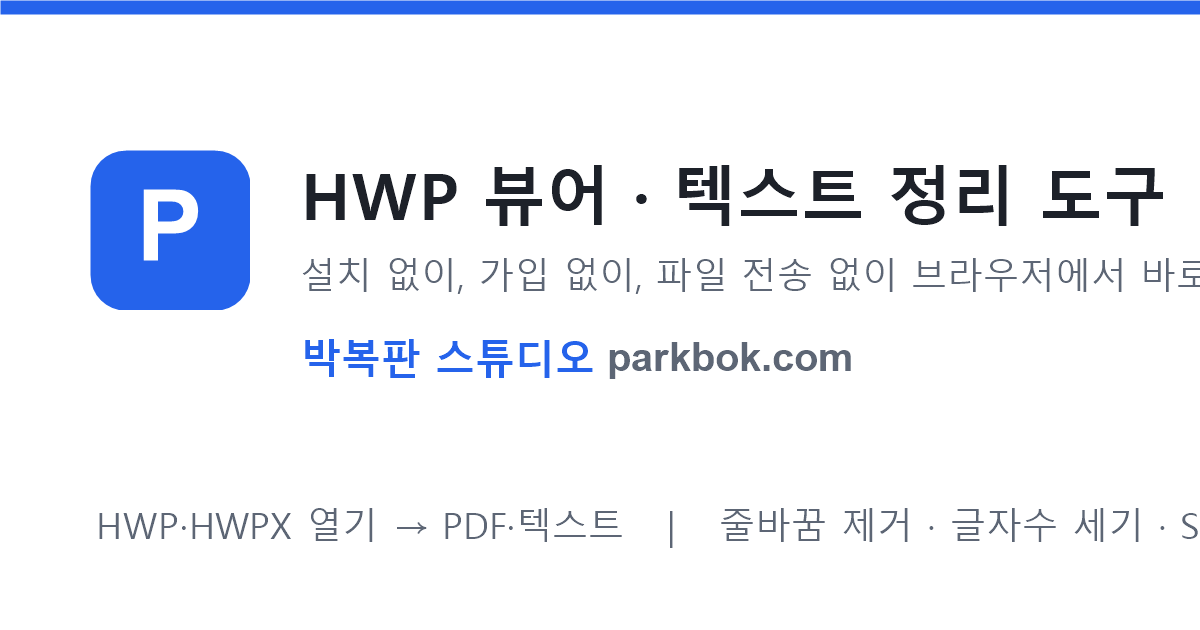
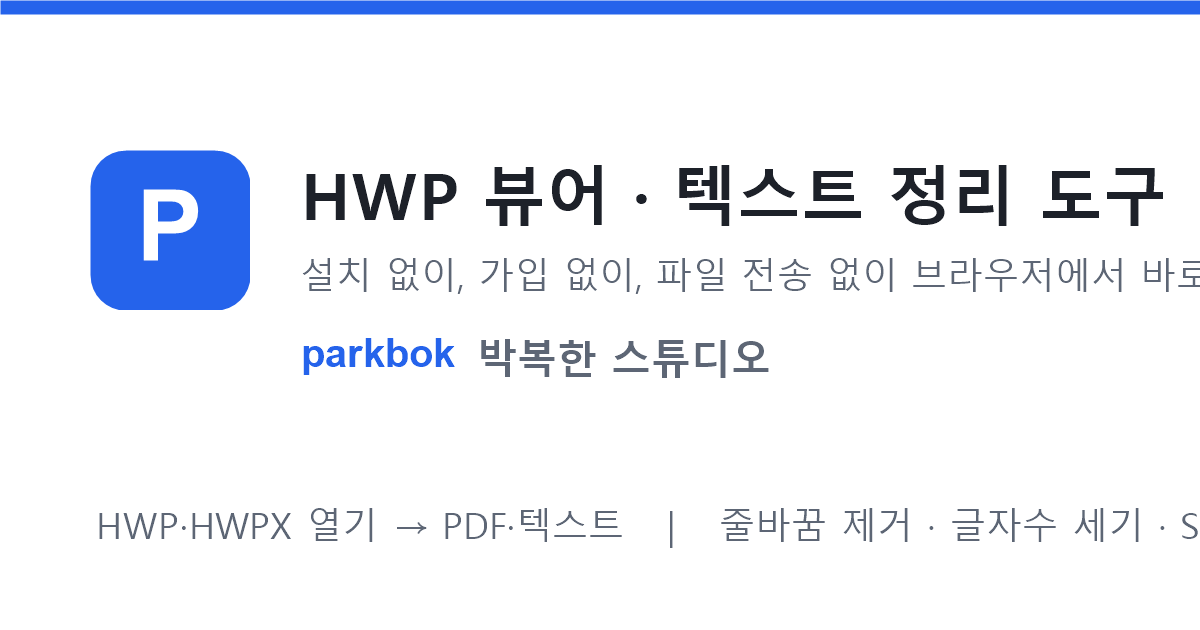
브랜드를 영어 'parkbok'으로 통일 (한국어 명칭은 소개 페이지에 '박복한 스튜디오')
- 제목·상단 로고·바닥글·og:site_name·manifest·구조화 데이터·돌림판 8개 언어·공유 이미지 반영
- tools/rename-site.js 를 예전 이름 전부 → parkbok 으로 갱신

Changed region(s): [[0.2467, 0.5429, 0.7092, 0.6032]]

diff --git a/about.html b/about.html
@@ -2,8 +2,8 @@
 <html lang="ko">
 <head>
 <meta charset="utf-8"><meta name="viewport" content="width=device-width,initial-scale=1">
-<title>소개 | 박복판 스튜디오</title>
-<meta name="description" content="박복판 스튜디오(parkbok.com)는 설치 없이 브라우저에서 HWP 문서를 열어 보는 무료 도구 사이트입니다. 왜 만들었고 어떻게 동작하는지 설명합니다.">
+<title>소개 | parkbok</title>
+<meta name="description" content="parkbok(박복한 스튜디오)은 설치 없이 브라우저에서 HWP 문서를 열어 보는 무료 도구 사이트입니다. 왜 만들었고 어떻게 동작하는지 설명합니다.">
 <link rel="canonical" href="https://parkbok.com/about.html">
 <style id="site-css">
 :root{--bg:#f6f7f9;--card:#fff;--ink:#1d2129;--muted:#5d6675;--line:#e3e6ea;--accent:#2563eb;--accent-ink:#fff}
@@ -69,7 +69,7 @@ article p{margin:0 0 14px}article ul,article ol{padding-left:22px}article li{mar
 <link rel="manifest" href="/manifest.json">
 <meta name="theme-color" content="#2563eb">
 <meta property="og:type" content="website">
-<meta property="og:site_name" content="박복판 스튜디오">
+<meta property="og:site_name" content="parkbok">
 <meta property="og:image" content="https://parkbok.com/og.png">
 <meta property="og:image:width" content="1200">
 <meta property="og:image:height" content="630">
@@ -81,10 +81,10 @@ article p{margin:0 0 14px}article ul,article ol{padding-left:22px}article li{mar
 <!-- /head:ga -->
 </head>
 <body>
-<header class="top"><div class="wrap"><a class="brand" href="/">박복판 <span style="color:#2563eb">스튜디오</span></a><nav class="menu"><a href="/">HWP 뷰어</a><a href="/text/">텍스트 도구</a><a href="/wheel/ko/">룰렛</a><a href="/guide/">가이드</a><a href="/about.html">소개</a></nav></div></header>
+<header class="top"><div class="wrap"><a class="brand" href="/">parkbok</a><nav class="menu"><a href="/">HWP 뷰어</a><a href="/text/">텍스트 도구</a><a href="/wheel/ko/">룰렛</a><a href="/guide/">가이드</a><a href="/about.html">소개</a></nav></div></header>
 <main class="wrap"><article class="card">
-<h1>박복판 스튜디오(parkbok.com) 소개</h1>
-<p>박복판 스튜디오는 "한글 프로그램이 없는데 HWP 파일을 급히 봐야 할 때"를 위해 만든 사이트입니다. 맥북, 회사 밖 노트북, 휴대폰에서 공문·이력서·계약서를 받았는데 열 수 없어 당황한 경험에서 출발했습니다.</p>
+<h1>parkbok (박복한 스튜디오) 소개</h1>
+<p>parkbok(박복한 스튜디오)은 "한글 프로그램이 없는데 HWP 파일을 급히 봐야 할 때"를 위해 만든 사이트입니다. 맥북, 회사 밖 노트북, 휴대폰에서 공문·이력서·계약서를 받았는데 열 수 없어 당황한 경험에서 출발했습니다.</p>
 
 <h2>어떻게 동작하나요</h2>
 <p>대부분의 온라인 변환 사이트는 파일을 자기 서버에 올려서 변환합니다. 이 사이트는 다릅니다. HWP 파일 구조를 해석하는 코드가 웹페이지와 함께 내려와서, 변환은 사용자의 브라우저 안에서 끝납니다. 그래서 파일을 받을 서버가 아예 없고, 운영자도 어떤 파일이 열렸는지 알 수 없습니다.</p>
@@ -100,5 +100,5 @@ article p{margin:0 0 14px}article ul,article ol{padding-left:22px}article li{mar
 <h2>운영</h2>
 <p>사이트는 개인이 운영하며 광고 수익으로 도메인과 유지 비용을 충당합니다. 오류 제보나 요청은 <a href="mailto:bsb94399@gmail.com">bsb94399@gmail.com</a>으로 보내 주세요.</p>
 </article></main>
-<footer><div class="wrap"><a href="/about.html">소개</a><a href="/privacy.html">개인정보처리방침</a><a href="/terms.html">이용약관</a><a href="/guide/">가이드</a><div style="margin-top:8px">© 박복판 스튜디오 · parkbok.com</div></div></footer>
+<footer><div class="wrap"><a href="/about.html">소개</a><a href="/privacy.html">개인정보처리방침</a><a href="/terms.html">이용약관</a><a href="/guide/">가이드</a><div style="margin-top:8px">© parkbok</div></div></footer>
 </body></html>

diff --git a/wheel/ja/what-to-eat/index.html b/wheel/ja/what-to-eat/index.html
@@ -14,7 +14,7 @@
 <link rel="alternate" hreflang="de" href="https://parkbok.com/wheel/de/what-to-eat/">
 <link rel="alternate" hreflang="fr" href="https://parkbok.com/wheel/fr/what-to-eat/">
 <link rel="alternate" hreflang="x-default" href="https://parkbok.com/wheel/what-to-eat/">
-<meta property="og:type" content="website"><meta property="og:site_name" content="Parkbok Studio">
+<meta property="og:type" content="website"><meta property="og:site_name" content="parkbok">
 <meta property="og:title" content="今日のご飯 ルーレット – 献立を決める"><meta property="og:description" content="何を食べるか決まらない時は、ご飯ルーレット。メニューは編集でき、行きつけのお店も追加できます。">
 <meta property="og:url" content="https://parkbok.com/wheel/ja/what-to-eat/"><meta property="og:image" content="https://parkbok.com/og-wheel.png">
 <meta property="og:image:width" content="1200"><meta property="og:image:height" content="630">
@@ -94,7 +94,7 @@ footer{border-top:1px solid var(--line);color:var(--muted);font-size:13px;paddin
 </head>
 <body>
 <header class="top"><div class="wrap">
-  <a class="brand" href="/wheel/ja/">Parkbok Studio</a>
+  <a class="brand" href="/wheel/ja/">parkbok</a>
   <nav class="menu"><a href="/wheel/ja/">名前選び</a><a href="/wheel/ja/yes-or-no/">はい/いいえ</a><a href="/wheel/ja/number/">数字</a><a href="/wheel/ja/what-to-eat/" class="on">今日のご飯</a></nav>
   <select id="lang" aria-label="言語"><option value="/wheel/what-to-eat/" data-code="en">English</option><option value="/wheel/ko/what-to-eat/" data-code="ko">한국어</option><option value="/wheel/zh/what-to-eat/" data-code="zh">中文</option><option value="/wheel/ja/what-to-eat/" data-code="ja" selected>日本語</option><option value="/wheel/es/what-to-eat/" data-code="es">Español</option><option value="/wheel/pt/what-to-eat/" data-code="pt">Português</option><option value="/wheel/de/what-to-eat/" data-code="de">Deutsch</option><option value="/wheel/fr/what-to-eat/" data-code="fr">Français</option></select>
 </div></header>
@@ -159,7 +159,7 @@ footer{border-top:1px solid var(--line);color:var(--muted);font-size:13px;paddin
   </div>
 </div>
 <canvas id="confetti" class="confetti"></canvas>
-<footer><div class="wrap">© Parkbok Studio · parkbok.com</div></footer>
+<footer><div class="wrap">© parkbok</div></footer>
 <script>window.WHEEL_CONFIG={"lang":"ja","preset":"what-to-eat","ui":{"entries":"項目","results":"結果","placeholder":"1行に1つずつ入力","spin":"回す","shuffle":"シャッフル","sort":"並べ替え","clear":"クリア","share":"共有","copied":"リンクをコピーしました。どこにでも貼り付けられます。","fullscreen":"全画面","removeWinner":"当たった項目を自動で除外","sound":"サウンド","duration":"回転時間","sec":"秒","noResults":"まだ結果がありません。回してみましょう！","clearResults":"結果を消す","winner":"決定！","remove":"除外","close":"閉じる","entriesCount":"{n} 件","titlePh":"ルーレットのタイトル（任意）","language":"言語","from":"から","to":"まで","ok":"適用","maybe":"「たぶん」を追加","maybeWord":"たぶん","tapToSpin":"ルーレットをタップするか「回す」を押してください","spinning":"回転中…","noEntries":"回すには項目を2つ以上入れてください。","other":"他のルーレット","howTo":"使い方","faqTitle":"よくある質問"},"entries":["ラーメン","寿司","カレー","焼肉","うどん","牛丼","天ぷら","ハンバーガー","ピザ","パスタ","唐揚げ","お好み焼き"],"langUrls":{"en":"/wheel/what-to-eat/","ko":"/wheel/ko/what-to-eat/","zh":"/wheel/zh/what-to-eat/","ja":"/wheel/ja/what-to-eat/","es":"/wheel/es/what-to-eat/","pt":"/wheel/pt/what-to-eat/","de":"/wheel/de/what-to-eat/","fr":"/wheel/fr/what-to-eat/"},"maybeWord":"たぶん"};</script>
 <script src="/wheel/wheel.js" defer></script>
 </body>

diff --git a/wheel/ko/what-to-eat/index.html b/wheel/ko/what-to-eat/index.html
@@ -14,7 +14,7 @@
 <link rel="alternate" hreflang="de" href="https://parkbok.com/wheel/de/what-to-eat/">
 <link rel="alternate" hreflang="fr" href="https://parkbok.com/wheel/fr/what-to-eat/">
 <link rel="alternate" hreflang="x-default" href="https://parkbok.com/wheel/what-to-eat/">
-<meta property="og:type" content="website"><meta property="og:site_name" content="박복판 스튜디오">
+<meta property="og:type" content="website"><meta property="og:site_name" content="parkbok">
 <meta property="og:title" content="오늘 뭐 먹지 룰렛 – 메뉴 추천 돌림판"><meta property="og:description" content="메뉴 고민 끝. 오늘 뭐 먹지 룰렛을 돌려 점심·저녁 메뉴를 정하세요. 메뉴 수정, 단골집 추가 가능.">
 <meta property="og:url" content="https://parkbok.com/wheel/ko/what-to-eat/"><meta property="og:image" content="https://parkbok.com/og-wheel.png">
 <meta property="og:image:width" content="1200"><meta property="og:image:height" content="630">
@@ -94,7 +94,7 @@ footer{border-top:1px solid var(--line);color:var(--muted);font-size:13px;paddin
 </head>
 <body>
 <header class="top"><div class="wrap">
-  <a class="brand" href="/wheel/ko/">박복판 스튜디오</a>
+  <a class="brand" href="/wheel/ko/">parkbok</a>
   <nav class="menu"><a href="/wheel/ko/">이름 뽑기</a><a href="/wheel/ko/yes-or-no/">예/아니오</a><a href="/wheel/ko/number/">숫자</a><a href="/wheel/ko/what-to-eat/" class="on">오늘 뭐 먹지</a></nav>
   <select id="lang" aria-label="언어"><option value="/wheel/what-to-eat/" data-code="en">English</option><option value="/wheel/ko/what-to-eat/" data-code="ko" selected>한국어</option><option value="/wheel/zh/what-to-eat/" data-code="zh">中文</option><option value="/wheel/ja/what-to-eat/" data-code="ja">日本語</option><option value="/wheel/es/what-to-eat/" data-code="es">Español</option><option value="/wheel/pt/what-to-eat/" data-code="pt">Português</option><option value="/wheel/de/what-to-eat/" data-code="de">Deutsch</option><option value="/wheel/fr/what-to-eat/" data-code="fr">Français</option></select>
 </div></header>
@@ -159,7 +159,7 @@ footer{border-top:1px solid var(--line);color:var(--muted);font-size:13px;paddin
   </div>
 </div>
 <canvas id="confetti" class="confetti"></canvas>
-<footer><div class="wrap">© 박복판 스튜디오 · parkbok.com</div></footer>
+<footer><div class="wrap">© parkbok</div></footer>
 <script>window.WHEEL_CONFIG={"lang":"ko","preset":"what-to-eat","ui":{"entries":"항목","results":"결과","placeholder":"한 줄에 하나씩 입력","spin":"돌리기","shuffle":"섞기","sort":"정렬","clear":"지우기","share":"공유","copied":"링크를 복사했습니다. 어디든 붙여 넣으세요.","fullscreen":"전체화면","removeWinner":"당첨 항목 자동 제거","sound":"소리","duration":"회전 시간","sec":"초","noResults":"아직 결과가 없습니다. 룰렛을 돌려 보세요!","clearResults":"결과 지우기","winner":"당첨!","remove":"제거","close":"닫기","entriesCount":"{n}개 항목","titlePh":"룰렛 제목 (선택)","language":"언어","from":"부터","to":"까지","ok":"적용","maybe":"“글쎄” 추가","maybeWord":"글쎄","tapToSpin":"룰렛을 누르거나 돌리기 버튼을 누르세요","spinning":"돌아가는 중…","noEntries":"항목을 2개 이상 넣어야 돌릴 수 있습니다.","other":"다른 룰렛","howTo":"사용 방법","faqTitle":"자주 묻는 질문"},"entries":["김치찌개","삼겹살","치킨","피자","떡볶이","초밥","햄버거","파스타","국밥","짜장면","라멘","쌀국수"],"langUrls":{"en":"/wheel/what-to-eat/","ko":"/wheel/ko/what-to-eat/","zh":"/wheel/zh/what-to-eat/","ja":"/wheel/ja/what-to-eat/","es":"/wheel/es/what-to-eat/","pt":"/wheel/pt/what-to-eat/","de":"/wheel/de/what-to-eat/","fr":"/wheel/fr/what-to-eat/"},"maybeWord":"글쎄"};</script>
 <script src="/wheel/wheel.js" defer></script>
 </body>

diff --git a/guide/index.html b/guide/index.html
@@ -2,7 +2,7 @@
 <html lang="ko">
 <head>
 <meta charset="utf-8"><meta name="viewport" content="width=device-width,initial-scale=1">
-<title>HWP 가이드 | 박복판 스튜디오</title>
+<title>HWP 가이드 | parkbok</title>
 <meta name="description" content="HWP·HWPX 문서를 열고, 바꾸고, 문제를 해결하는 방법 모음.">
 <link rel="canonical" href="https://parkbok.com/guide/">
 <style id="site-css">
@@ -69,7 +69,7 @@ article p{margin:0 0 14px}article ul,article ol{padding-left:22px}article li{mar
 <link rel="manifest" href="/manifest.json">
 <meta name="theme-color" content="#2563eb">
 <meta property="og:type" content="website">
-<meta property="og:site_name" content="박복판 스튜디오">
+<meta property="og:site_name" content="parkbok">
 <meta property="og:image" content="https://parkbok.com/og.png">
 <meta property="og:image:width" content="1200">
 <meta property="og:image:height" content="630">
@@ -81,7 +81,7 @@ article p{margin:0 0 14px}article ul,article ol{padding-left:22px}article li{mar
 <!-- /head:ga -->
 </head>
 <body>
-<header class="top"><div class="wrap"><a class="brand" href="/">박복판 <span style="color:#2563eb">스튜디오</span></a><nav class="menu"><a href="/">HWP 뷰어</a><a href="/text/">텍스트 도구</a><a href="/wheel/ko/">룰렛</a><a href="/guide/">가이드</a><a href="/about.html">소개</a></nav></div></header>
+<header class="top"><div class="wrap"><a class="brand" href="/">parkbok</a><nav class="menu"><a href="/">HWP 뷰어</a><a href="/text/">텍스트 도구</a><a href="/wheel/ko/">룰렛</a><a href="/guide/">가이드</a><a href="/about.html">소개</a></nav></div></header>
 <main class="wrap"><article class="card">
 <h1>HWP 가이드</h1>
 <ul><li><a href="/guide/hwp-vs-hwpx.html">HWP와 HWPX의 차이, 무엇을 써야 할까</a><br><span style="color:#5d6675;font-size:14px">한글 문서의 두 확장자 HWP와 HWPX가 어떻게 다른지, 호환성과 보안, 제출 시 어떤 형식이 안전한지 정리했습니다.</span></li><li><a href="/guide/open-hwp-on-mac.html">맥에서 HWP 파일 여는 방법 4가지</a><br><span style="color:#5d6675;font-size:14px">맥북에 한글이 없을 때 HWP를 여는 방법을 쉬운 순서로 정리했습니다. 브라우저 뷰어, 한컴독스, 한글 for Mac, 다른 프로그램 비교.</span></li><li><a href="/guide/hwp-to-pdf.html">HWP를 PDF로 바꾸는 방법 (무료, 설치 없음)</a><br><span style="color:#5d6675;font-size:14px">한글 프로그램 없이 HWP를 PDF로 변환하는 방법. 브라우저 인쇄로 저장하는 단계별 설명과 주의할 점.</span></li><li><a href="/guide/open-hwp-on-phone.html">휴대폰에서 HWP 파일 열기 (안드로이드·아이폰)</a><br><span style="color:#5d6675;font-size:14px">카카오톡이나 메일로 받은 HWP를 휴대폰에서 여는 방법. 앱 설치 없이 브라우저로 보는 법과 한컴오피스 뷰어 비교.</span></li><li><a href="/guide/hwp-wont-open.html">HWP 파일이 안 열릴 때 확인할 것 6가지</a><br><span style="color:#5d6675;font-size:14px">HWP 파일이 열리지 않거나 깨질 때 원인별 해결 방법. 암호, 배포용 문서, 구버전 형식, 확장자 오류, 손상 파일.</span></li></ul>
@@ -89,5 +89,5 @@ article p{margin:0 0 14px}article ul,article ol{padding-left:22px}article li{mar
 </article>
 <div class="ad"></div>
 </main>
-<footer><div class="wrap"><a href="/about.html">소개</a><a href="/privacy.html">개인정보처리방침</a><a href="/terms.html">이용약관</a><a href="/guide/">가이드</a><div style="margin-top:8px">© 박복판 스튜디오 · parkbok.com</div></div></footer>
+<footer><div class="wrap"><a href="/about.html">소개</a><a href="/privacy.html">개인정보처리방침</a><a href="/terms.html">이용약관</a><a href="/guide/">가이드</a><div style="margin-top:8px">© parkbok</div></div></footer>
 </body></html>

diff --git a/wheel/ja/yes-or-no/index.html b/wheel/ja/yes-or-no/index.html
@@ -14,7 +14,7 @@
 <link rel="alternate" hreflang="de" href="https://parkbok.com/wheel/de/yes-or-no/">
 <link rel="alternate" hreflang="fr" href="https://parkbok.com/wheel/fr/yes-or-no/">
 <link rel="alternate" hreflang="x-default" href="https://parkbok.com/wheel/yes-or-no/">
-<meta property="og:type" content="website"><meta property="og:site_name" content="Parkbok Studio">
+<meta property="og:type" content="website"><meta property="og:site_name" content="parkbok">
 <meta property="og:title" content="はい・いいえ ルーレット – 回して決める"><meta property="og:description" content="決められない時は、はい・いいえルーレット。無料ですぐ使えて、「たぶん」も追加できます。">
 <meta property="og:url" content="https://parkbok.com/wheel/ja/yes-or-no/"><meta property="og:image" content="https://parkbok.com/og-wheel.png">
 <meta property="og:image:width" content="1200"><meta property="og:image:height" content="630">
@@ -94,7 +94,7 @@ footer{border-top:1px solid var(--line);color:var(--muted);font-size:13px;paddin
 </head>
 <body>
 <header class="top"><div class="wrap">
-  <a class="brand" href="/wheel/ja/">Parkbok Studio</a>
+  <a class="brand" href="/wheel/ja/">parkbok</a>
   <nav class="menu"><a href="/wheel/ja/">名前選び</a><a href="/wheel/ja/yes-or-no/" class="on">はい/いいえ</a><a href="/wheel/ja/number/">数字</a><a href="/wheel/ja/what-to-eat/">今日のご飯</a></nav>
   <select id="lang" aria-label="言語"><option value="/wheel/yes-or-no/" data-code="en">English</option><option value="/wheel/ko/yes-or-no/" data-code="ko">한국어</option><option value="/wheel/zh/yes-or-no/" data-code="zh">中文</option><option value="/wheel/ja/yes-or-no/" data-code="ja" selected>日本語</option><option value="/wheel/es/yes-or-no/" data-code="es">Español</option><option value="/wheel/pt/yes-or-no/" data-code="pt">Português</option><option value="/wheel/de/yes-or-no/" data-code="de">Deutsch</option><option value="/wheel/fr/yes-or-no/" data-code="fr">Français</option></select>
 </div></header>
@@ -159,7 +159,7 @@ footer{border-top:1px solid var(--line);color:var(--muted);font-size:13px;paddin
   </div>
 </div>
 <canvas id="confetti" class="confetti"></canvas>
-<footer><div class="wrap">© Parkbok Studio · parkbok.com</div></footer>
+<footer><div class="wrap">© parkbok</div></footer>
 <script>window.WHEEL_CONFIG={"lang":"ja","preset":"yes-or-no","ui":{"entries":"項目","results":"結果","placeholder":"1行に1つずつ入力","spin":"回す","shuffle":"シャッフル","sort":"並べ替え","clear":"クリア","share":"共有","copied":"リンクをコピーしました。どこにでも貼り付けられます。","fullscreen":"全画面","removeWinner":"当たった項目を自動で除外","sound":"サウンド","duration":"回転時間","sec":"秒","noResults":"まだ結果がありません。回してみましょう！","clearResults":"結果を消す","winner":"決定！","remove":"除外","close":"閉じる","entriesCount":"{n} 件","titlePh":"ルーレットのタイトル（任意）","language":"言語","from":"から","to":"まで","ok":"適用","maybe":"「たぶん」を追加","maybeWord":"たぶん","tapToSpin":"ルーレットをタップするか「回す」を押してください","spinning":"回転中…","noEntries":"回すには項目を2つ以上入れてください。","other":"他のルーレット","howTo":"使い方","faqTitle":"よくある質問"},"entries":["はい","いいえ","はい","いいえ","はい","いいえ"],"langUrls":{"en":"/wheel/yes-or-no/","ko":"/wheel/ko/yes-or-no/","zh":"/wheel/zh/yes-or-no/","ja":"/wheel/ja/yes-or-no/","es":"/wheel/es/yes-or-no/","pt":"/wheel/pt/yes-or-no/","de":"/wheel/de/yes-or-no/","fr":"/wheel/fr/yes-or-no/"},"maybeWord":"たぶん"};</script>
 <script src="/wheel/wheel.js" defer></script>
 </body>

diff --git a/wheel/fr/what-to-eat/index.html b/wheel/fr/what-to-eat/index.html
@@ -14,7 +14,7 @@
 <link rel="alternate" hreflang="de" href="https://parkbok.com/wheel/de/what-to-eat/">
 <link rel="alternate" hreflang="fr" href="https://parkbok.com/wheel/fr/what-to-eat/">
 <link rel="alternate" hreflang="x-default" href="https://parkbok.com/wheel/what-to-eat/">
-<meta property="og:type" content="website"><meta property="og:site_name" content="Parkbok Studio">
+<meta property="og:type" content="website"><meta property="og:site_name" content="parkbok">
 <meta property="og:title" content="Quoi Manger ? Roue de la Nourriture – Tourner et décider"><meta property="og:description" content="Vous ne savez pas quoi manger ? Faites tourner la roue de la nourriture et laissez-la choisir le dîner. Modifiez le menu, ajoutez vos restaurants préférés.">
 <meta property="og:url" content="https://parkbok.com/wheel/fr/what-to-eat/"><meta property="og:image" content="https://parkbok.com/og-wheel.png">
 <meta property="og:image:width" content="1200"><meta property="og:image:height" content="630">
@@ -94,7 +94,7 @@ footer{border-top:1px solid var(--line);color:var(--muted);font-size:13px;paddin
 </head>
 <body>
 <header class="top"><div class="wrap">
-  <a class="brand" href="/wheel/fr/">Parkbok Studio</a>
+  <a class="brand" href="/wheel/fr/">parkbok</a>
   <nav class="menu"><a href="/wheel/fr/">Noms</a><a href="/wheel/fr/yes-or-no/">Oui ou Non</a><a href="/wheel/fr/number/">Nombres</a><a href="/wheel/fr/what-to-eat/" class="on">Quoi manger</a></nav>
   <select id="lang" aria-label="Langue"><option value="/wheel/what-to-eat/" data-code="en">English</option><option value="/wheel/ko/what-to-eat/" data-code="ko">한국어</option><option value="/wheel/zh/what-to-eat/" data-code="zh">中文</option><option value="/wheel/ja/what-to-eat/" data-code="ja">日本語</option><option value="/wheel/es/what-to-eat/" data-code="es">Español</option><option value="/wheel/pt/what-to-eat/" data-code="pt">Português</option><option value="/wheel/de/what-to-eat/" data-code="de">Deutsch</option><option value="/wheel/fr/what-to-eat/" data-code="fr" selected>Français</option></select>
 </div></header>
@@ -159,7 +159,7 @@ footer{border-top:1px solid var(--line);color:var(--muted);font-size:13px;paddin
   </div>
 </div>
 <canvas id="confetti" class="confetti"></canvas>
-<footer><div class="wrap">© Parkbok Studio · parkbok.com</div></footer>
+<footer><div class="wrap">© parkbok</div></footer>
 <script>window.WHEEL_CONFIG={"lang":"fr","preset":"what-to-eat","ui":{"entries":"Entrées","results":"Résultats","placeholder":"Une entrée par ligne","spin":"Tourner","shuffle":"Mélanger","sort":"Trier","clear":"Effacer","share":"Partager","copied":"Lien copié ! Collez-le où vous voulez.","fullscreen":"Plein écran","removeWinner":"Retirer le gagnant après le tirage","sound":"Son","duration":"Durée de rotation","sec":"s","noResults":"Pas encore de résultat. Faites tourner la roue !","clearResults":"Effacer les résultats","winner":"Nous avons un gagnant !","remove":"Retirer","close":"Fermer","entriesCount":"{n} entrées","titlePh":"Titre de la roue (facultatif)","language":"Langue","from":"De","to":"À","ok":"OK","maybe":"Ajouter « Peut-être »","maybeWord":"Peut-être","tapToSpin":"Touchez la roue ou appuyez sur Tourner","spinning":"Ça tourne…","noEntries":"Ajoutez au moins 2 entrées pour tourner.","other":"Autres roues","howTo":"Mode d'emploi","faqTitle":"Questions fréquentes"},"entries":["Pizza","Burger","Sushi","Pâtes","Salade","Crêpes","Kebab","Ramen","Tacos","Quiche","Raclette","Couscous"],"langUrls":{"en":"/wheel/what-to-eat/","ko":"/wheel/ko/what-to-eat/","zh":"/wheel/zh/what-to-eat/","ja":"/wheel/ja/what-to-eat/","es":"/wheel/es/what-to-eat/","pt":"/wheel/pt/what-to-eat/","de":"/wheel/de/what-to-eat/","fr":"/wheel/fr/what-to-eat/"},"maybeWord":"Peut-être"};</script>
 <script src="/wheel/wheel.js" defer></script>
 </body>

diff --git a/wheel/de/what-to-eat/index.html b/wheel/de/what-to-eat/index.html
@@ -14,7 +14,7 @@
 <link rel="alternate" hreflang="de" href="https://parkbok.com/wheel/de/what-to-eat/">
 <link rel="alternate" hreflang="fr" href="https://parkbok.com/wheel/fr/what-to-eat/">
 <link rel="alternate" hreflang="x-default" href="https://parkbok.com/wheel/what-to-eat/">
-<meta property="og:type" content="website"><meta property="og:site_name" content="Parkbok Studio">
+<meta property="og:type" content="website"><meta property="og:site_name" content="parkbok">
 <meta property="og:title" content="Was soll ich essen? Essens-Glücksrad – Drehen und entscheiden"><meta property="og:description" content="Keine Ahnung, was du essen sollst? Dreh das Essens-Rad und lass es das Abendessen wählen. Menü bearbeiten, Lieblingsrestaurants hinzufügen.">
 <meta property="og:url" content="https://parkbok.com/wheel/de/what-to-eat/"><meta property="og:image" content="https://parkbok.com/og-wheel.png">
 <meta property="og:image:width" content="1200"><meta property="og:image:height" content="630">
@@ -94,7 +94,7 @@ footer{border-top:1px solid var(--line);color:var(--muted);font-size:13px;paddin
 </head>
 <body>
 <header class="top"><div class="wrap">
-  <a class="brand" href="/wheel/de/">Parkbok Studio</a>
+  <a class="brand" href="/wheel/de/">parkbok</a>
   <nav class="menu"><a href="/wheel/de/">Namen</a><a href="/wheel/de/yes-or-no/">Ja oder Nein</a><a href="/wheel/de/number/">Zahlen</a><a href="/wheel/de/what-to-eat/" class="on">Was essen</a></nav>
   <select id="lang" aria-label="Sprache"><option value="/wheel/what-to-eat/" data-code="en">English</option><option value="/wheel/ko/what-to-eat/" data-code="ko">한국어</option><option value="/wheel/zh/what-to-eat/" data-code="zh">中文</option><option value="/wheel/ja/what-to-eat/" data-code="ja">日本語</option><option value="/wheel/es/what-to-eat/" data-code="es">Español</option><option value="/wheel/pt/what-to-eat/" data-code="pt">Português</option><option value="/wheel/de/what-to-eat/" data-code="de" selected>Deutsch</option><option value="/wheel/fr/what-to-eat/" data-code="fr">Français</option></select>
 </div></header>
@@ -159,7 +159,7 @@ footer{border-top:1px solid var(--line);color:var(--muted);font-size:13px;paddin
   </div>
 </div>
 <canvas id="confetti" class="confetti"></canvas>
-<footer><div class="wrap">© Parkbok Studio · parkbok.com</div></footer>
+<footer><div class="wrap">© parkbok</div></footer>
 <script>window.WHEEL_CONFIG={"lang":"de","preset":"what-to-eat","ui":{"entries":"Einträge","results":"Ergebnisse","placeholder":"Pro Zeile ein Eintrag","spin":"Drehen","shuffle":"Mischen","sort":"Sortieren","clear":"Leeren","share":"Teilen","copied":"Link kopiert! Überall einfügbar.","fullscreen":"Vollbild","removeWinner":"Gewinner nach dem Drehen entfernen","sound":"Ton","duration":"Drehdauer","sec":"s","noResults":"Noch keine Ergebnisse. Dreh das Rad!","clearResults":"Ergebnisse löschen","winner":"Wir haben einen Gewinner!","remove":"Entfernen","close":"Schließen","entriesCount":"{n} Einträge","titlePh":"Titel des Rads (optional)","language":"Sprache","from":"Von","to":"Bis","ok":"OK","maybe":"„Vielleicht“ hinzufügen","maybeWord":"Vielleicht","tapToSpin":"Rad antippen oder auf Drehen klicken","spinning":"Dreht sich…","noEntries":"Mindestens 2 Einträge nötig, um zu drehen.","other":"Weitere Räder","howTo":"So funktioniert es","faqTitle":"Häufige Fragen"},"entries":["Pizza","Döner","Burger","Schnitzel","Sushi","Pasta","Currywurst","Salat","Ramen","Tacos","Flammkuchen","Bratwurst"],"langUrls":{"en":"/wheel/what-to-eat/","ko":"/wheel/ko/what-to-eat/","zh":"/wheel/zh/what-to-eat/","ja":"/wheel/ja/what-to-eat/","es":"/wheel/es/what-to-eat/","pt":"/wheel/pt/what-to-eat/","de":"/wheel/de/what-to-eat/","fr":"/wheel/fr/what-to-eat/"},"maybeWord":"Vielleicht"};</script>
 <script src="/wheel/wheel.js" defer></script>
 </body>

diff --git a/wheel/es/what-to-eat/index.html b/wheel/es/what-to-eat/index.html
@@ -14,7 +14,7 @@
 <link rel="alternate" hreflang="de" href="https://parkbok.com/wheel/de/what-to-eat/">
 <link rel="alternate" hreflang="fr" href="https://parkbok.com/wheel/fr/what-to-eat/">
 <link rel="alternate" hreflang="x-default" href="https://parkbok.com/wheel/what-to-eat/">
-<meta property="og:type" content="website"><meta property="og:site_name" content="Parkbok Studio">
+<meta property="og:type" content="website"><meta property="og:site_name" content="parkbok">
 <meta property="og:title" content="¿Qué Comer Hoy? Ruleta de Comida – Gira y Decide"><meta property="og:description" content="¿No sabes qué comer? Gira la ruleta de comida y deja que elija la cena por ti. Edita el menú y añade tus restaurantes favoritos.">
 <meta property="og:url" content="https://parkbok.com/wheel/es/what-to-eat/"><meta property="og:image" content="https://parkbok.com/og-wheel.png">
 <meta property="og:image:width" content="1200"><meta property="og:image:height" content="630">
@@ -94,7 +94,7 @@ footer{border-top:1px solid var(--line);color:var(--muted);font-size:13px;paddin
 </head>
 <body>
 <header class="top"><div class="wrap">
-  <a class="brand" href="/wheel/es/">Parkbok Studio</a>
+  <a class="brand" href="/wheel/es/">parkbok</a>
   <nav class="menu"><a href="/wheel/es/">Nombres</a><a href="/wheel/es/yes-or-no/">Sí o No</a><a href="/wheel/es/number/">Números</a><a href="/wheel/es/what-to-eat/" class="on">Qué comer</a></nav>
   <select id="lang" aria-label="Idioma"><option value="/wheel/what-to-eat/" data-code="en">English</option><option value="/wheel/ko/what-to-eat/" data-code="ko">한국어</option><option value="/wheel/zh/what-to-eat/" data-code="zh">中文</option><option value="/wheel/ja/what-to-eat/" data-code="ja">日本語</option><option value="/wheel/es/what-to-eat/" data-code="es" selected>Español</option><option value="/wheel/pt/what-to-eat/" data-code="pt">Português</option><option value="/wheel/de/what-to-eat/" data-code="de">Deutsch</option><option value="/wheel/fr/what-to-eat/" data-code="fr">Français</option></select>
 </div></header>
@@ -159,7 +159,7 @@ footer{border-top:1px solid var(--line);color:var(--muted);font-size:13px;paddin
   </div>
 </div>
 <canvas id="confetti" class="confetti"></canvas>
-<footer><div class="wrap">© Parkbok Studio · parkbok.com</div></footer>
+<footer><div class="wrap">© parkbok</div></footer>
 <script>window.WHEEL_CONFIG={"lang":"es","preset":"what-to-eat","ui":{"entries":"Opciones","results":"Resultados","placeholder":"Escribe una opción por línea","spin":"Girar","shuffle":"Mezclar","sort":"Ordenar","clear":"Borrar","share":"Compartir","copied":"¡Enlace copiado! Pégalo donde quieras.","fullscreen":"Pantalla completa","removeWinner":"Quitar el ganador tras girar","sound":"Sonido","duration":"Duración del giro","sec":"s","noResults":"Aún no hay resultados. ¡Gira la ruleta!","clearResults":"Borrar resultados","winner":"¡Tenemos ganador!","remove":"Quitar","close":"Cerrar","entriesCount":"{n} opciones","titlePh":"Título de la ruleta (opcional)","language":"Idioma","from":"Desde","to":"Hasta","ok":"OK","maybe":"Añadir «Quizás»","maybeWord":"Quizás","tapToSpin":"Toca la ruleta o pulsa Girar","spinning":"Girando…","noEntries":"Añade al menos 2 opciones para girar.","other":"Más ruletas","howTo":"Cómo se usa","faqTitle":"Preguntas frecuentes"},"entries":["Tacos","Pizza","Paella","Hamburguesa","Sushi","Ensalada","Pasta","Pollo frito","Arepas","Empanadas","Ramen","Ceviche"],"langUrls":{"en":"/wheel/what-to-eat/","ko":"/wheel/ko/what-to-eat/","zh":"/wheel/zh/what-to-eat/","ja":"/wheel/ja/what-to-eat/","es":"/wheel/es/what-to-eat/","pt":"/wheel/pt/what-to-eat/","de":"/wheel/de/what-to-eat/","fr":"/wheel/fr/what-to-eat/"},"maybeWord":"Quizás"};</script>
 <script src="/wheel/wheel.js" defer></script>
 </body>

diff --git a/index.html b/index.html
@@ -3,7 +3,7 @@
 <head>
 <meta charset="utf-8">
 <meta name="viewport" content="width=device-width,initial-scale=1">
-<title>HWP 뷰어 · 변환 — 한글 없이 HWP/HWPX 열기, PDF·텍스트 저장 | 박복판 스튜디오</title>
+<title>HWP 뷰어 · 변환 — 한글 없이 HWP/HWPX 열기, PDF·텍스트 저장 | parkbok</title>
 <meta name="description" content="한글(HWP) 프로그램 없이 브라우저에서 HWP·HWPX 파일을 바로 열어 보고 PDF, 텍스트, HTML로 저장하세요. 파일은 서버로 전송되지 않고 내 브라우저 안에서만 처리됩니다. 설치·가입 없음, 무료.">
 <link rel="canonical" href="https://parkbok.com/">
 <meta name="naver-site-verification" content="7de1e409d63ba7461732d6a48b190cc48a6707e3" />
@@ -68,7 +68,7 @@ article p{margin:0 0 14px}article ul,article ol{padding-left:22px}article li{mar
 </style>
 <script async src="https://pagead2.googlesyndication.com/pagead/js/adsbygoogle.js?client=ca-pub-1415309581345613" crossorigin="anonymous"></script>
 <script type="application/ld+json">
-{"@context":"https://schema.org","@type":"WebApplication","name":"박복판 스튜디오 HWP 뷰어","url":"https://parkbok.com/","applicationCategory":"UtilitiesApplication","operatingSystem":"Any","offers":{"@type":"Offer","price":"0","priceCurrency":"KRW"},"description":"브라우저에서 HWP·HWPX 파일을 열어 보고 PDF·텍스트·HTML로 저장하는 무료 도구"}
+{"@context":"https://schema.org","@type":"WebApplication","name":"parkbok HWP 뷰어","url":"https://parkbok.com/","applicationCategory":"UtilitiesApplication","operatingSystem":"Any","offers":{"@type":"Offer","price":"0","priceCurrency":"KRW"},"description":"브라우저에서 HWP·HWPX 파일을 열어 보고 PDF·텍스트·HTML로 저장하는 무료 도구"}
 </script>
 <!-- head:common -->
 <link rel="icon" href="/favicon.svg" type="image/svg+xml">
@@ -77,7 +77,7 @@ article p{margin:0 0 14px}article ul,article ol{padding-left:22px}article li{mar
 <link rel="manifest" href="/manifest.json">
 <meta name="theme-color" content="#2563eb">
 <meta property="og:type" content="website">
-<meta property="og:site_name" content="박복판 스튜디오">
+<meta property="og:site_name" content="parkbok">
 <meta property="og:image" content="https://parkbok.com/og.png">
 <meta property="og:image:width" content="1200">
 <meta property="og:image:height" content="630">
@@ -90,7 +90,7 @@ article p{margin:0 0 14px}article ul,article ol{padding-left:22px}article li{mar
 </head>
 <body>
 <header class="top"><div class="wrap">
-  <a class="brand" href="/">박복판 <span style="color:#2563eb">스튜디오</span></a>
+  <a class="brand" href="/">parkbok</a>
   <nav class="menu"><a href="/">HWP 뷰어</a><a href="/text/">텍스트 도구</a><a href="/wheel/ko/">룰렛</a><a href="/guide/">가이드</a><a href="/about.html">소개</a></nav>
 </div></header>
 
@@ -170,7 +170,7 @@ article p{margin:0 0 14px}article ul,article ol{padding-left:22px}article li{mar
 
 <footer><div class="wrap">
   <a href="/about.html">소개</a><a href="/privacy.html">개인정보처리방침</a><a href="/terms.html">이용약관</a><a href="/guide/">가이드</a>
-  <div style="margin-top:8px">© 박복판 스튜디오 · parkbok.com · HWP 해석에 <a href="https://github.com/hahnlee/hwp.js" rel="noopener">hwp.js</a>(Apache-2.0)를 사용합니다. 한글(HWP)은 한글과컴퓨터의 상표이며 이 사이트와 관련이 없습니다.</div>
+  <div style="margin-top:8px">© parkbok · HWP 해석에 <a href="https://github.com/hahnlee/hwp.js" rel="noopener">hwp.js</a>(Apache-2.0)를 사용합니다. 한글(HWP)은 한글과컴퓨터의 상표이며 이 사이트와 관련이 없습니다.</div>
 </div></footer>
 
 <link rel="prefetch" href="/assets/hwp-bundle.js" as="script">

diff --git a/wheel/pt/what-to-eat/index.html b/wheel/pt/what-to-eat/index.html
@@ -14,7 +14,7 @@
 <link rel="alternate" hreflang="de" href="https://parkbok.com/wheel/de/what-to-eat/">
 <link rel="alternate" hreflang="fr" href="https://parkbok.com/wheel/fr/what-to-eat/">
 <link rel="alternate" hreflang="x-default" href="https://parkbok.com/wheel/what-to-eat/">
-<meta property="og:type" content="website"><meta property="og:site_name" content="Parkbok Studio">
+<meta property="og:type" content="website"><meta property="og:site_name" content="parkbok">
 <meta property="og:title" content="O Que Comer Hoje? Roleta de Comida – Gire e Decida"><meta property="og:description" content="Não sabe o que comer? Gire a roleta de comida e deixe ela escolher o jantar. Edite o cardápio e adicione seus restaurantes favoritos.">
 <meta property="og:url" content="https://parkbok.com/wheel/pt/what-to-eat/"><meta property="og:image" content="https://parkbok.com/og-wheel.png">
 <meta property="og:image:width" content="1200"><meta property="og:image:height" content="630">
@@ -94,7 +94,7 @@ footer{border-top:1px solid var(--line);color:var(--muted);font-size:13px;paddin
 </head>
 <body>
 <header class="top"><div class="wrap">
-  <a class="brand" href="/wheel/pt/">Parkbok Studio</a>
+  <a class="brand" href="/wheel/pt/">parkbok</a>
   <nav class="menu"><a href="/wheel/pt/">Nomes</a><a href="/wheel/pt/yes-or-no/">Sim ou Não</a><a href="/wheel/pt/number/">Números</a><a href="/wheel/pt/what-to-eat/" class="on">O que comer</a></nav>
   <select id="lang" aria-label="Idioma"><option value="/wheel/what-to-eat/" data-code="en">English</option><option value="/wheel/ko/what-to-eat/" data-code="ko">한국어</option><option value="/wheel/zh/what-to-eat/" data-code="zh">中文</option><option value="/wheel/ja/what-to-eat/" data-code="ja">日本語</option><option value="/wheel/es/what-to-eat/" data-code="es">Español</option><option value="/wheel/pt/what-to-eat/" data-code="pt" selected>Português</option><option value="/wheel/de/what-to-eat/" data-code="de">Deutsch</option><option value="/wheel/fr/what-to-eat/" data-code="fr">Français</option></select>
 </div></header>
@@ -159,7 +159,7 @@ footer{border-top:1px solid var(--line);color:var(--muted);font-size:13px;paddin
   </div>
 </div>
 <canvas id="confetti" class="confetti"></canvas>
-<footer><div class="wrap">© Parkbok Studio · parkbok.com</div></footer>
+<footer><div class="wrap">© parkbok</div></footer>
 <script>window.WHEEL_CONFIG={"lang":"pt","preset":"what-to-eat","ui":{"entries":"Opções","results":"Resultados","placeholder":"Digite uma opção por linha","spin":"Girar","shuffle":"Embaralhar","sort":"Ordenar","clear":"Limpar","share":"Compartilhar","copied":"Link copiado! Cole onde quiser.","fullscreen":"Tela cheia","removeWinner":"Remover o vencedor após girar","sound":"Som","duration":"Tempo de giro","sec":"s","noResults":"Ainda não há resultados. Gire a roleta!","clearResults":"Limpar resultados","winner":"Temos um vencedor!","remove":"Remover","close":"Fechar","entriesCount":"{n} opções","titlePh":"Título da roleta (opcional)","language":"Idioma","from":"De","to":"Até","ok":"OK","maybe":"Adicionar “Talvez”","maybeWord":"Talvez","tapToSpin":"Toque na roleta ou clique em Girar","spinning":"Girando…","noEntries":"Adicione pelo menos 2 opções para girar.","other":"Mais roletas","howTo":"Como usar","faqTitle":"Perguntas frequentes"},"entries":["Pizza","Hambúrguer","Sushi","Feijoada","Churrasco","Pastel","Lasanha","Salada","Açaí","Coxinha","Lámen","Tacos"],"langUrls":{"en":"/wheel/what-to-eat/","ko":"/wheel/ko/what-to-eat/","zh":"/wheel/zh/what-to-eat/","ja":"/wheel/ja/what-to-eat/","es":"/wheel/es/what-to-eat/","pt":"/wheel/pt/what-to-eat/","de":"/wheel/de/what-to-eat/","fr":"/wheel/fr/what-to-eat/"},"maybeWord":"Talvez"};</script>
 <script src="/wheel/wheel.js" defer></script>
 </body>

diff --git a/wheel/ko/yes-or-no/index.html b/wheel/ko/yes-or-no/index.html
@@ -14,7 +14,7 @@
 <link rel="alternate" hreflang="de" href="https://parkbok.com/wheel/de/yes-or-no/">
 <link rel="alternate" hreflang="fr" href="https://parkbok.com/wheel/fr/yes-or-no/">
 <link rel="alternate" hreflang="x-default" href="https://parkbok.com/wheel/yes-or-no/">
-<meta property="og:type" content="website"><meta property="og:site_name" content="박복판 스튜디오">
+<meta property="og:type" content="website"><meta property="og:site_name" content="parkbok">
 <meta property="og:title" content="예 아니오 룰렛 – 돌려서 결정하기"><meta property="og:description" content="결정이 안 될 때 예/아니오 룰렛을 돌리세요. 무료, 바로 사용, 원하면 ‘글쎄’도 추가.">
 <meta property="og:url" content="https://parkbok.com/wheel/ko/yes-or-no/"><meta property="og:image" content="https://parkbok.com/og-wheel.png">
 <meta property="og:image:width" content="1200"><meta property="og:image:height" content="630">
@@ -94,7 +94,7 @@ footer{border-top:1px solid var(--line);color:var(--muted);font-size:13px;paddin
 </head>
 <body>
 <header class="top"><div class="wrap">
-  <a class="brand" href="/wheel/ko/">박복판 스튜디오</a>
+  <a class="brand" href="/wheel/ko/">parkbok</a>
   <nav class="menu"><a href="/wheel/ko/">이름 뽑기</a><a href="/wheel/ko/yes-or-no/" class="on">예/아니오</a><a href="/wheel/ko/number/">숫자</a><a href="/wheel/ko/what-to-eat/">오늘 뭐 먹지</a></nav>
   <select id="lang" aria-label="언어"><option value="/wheel/yes-or-no/" data-code="en">English</option><option value="/wheel/ko/yes-or-no/" data-code="ko" selected>한국어</option><option value="/wheel/zh/yes-or-no/" data-code="zh">中文</option><option value="/wheel/ja/yes-or-no/" data-code="ja">日本語</option><option value="/wheel/es/yes-or-no/" data-code="es">Español</option><option value="/wheel/pt/yes-or-no/" data-code="pt">Português</option><option value="/wheel/de/yes-or-no/" data-code="de">Deutsch</option><option value="/wheel/fr/yes-or-no/" data-code="fr">Français</option></select>
 </div></header>
@@ -159,7 +159,7 @@ footer{border-top:1px solid var(--line);color:var(--muted);font-size:13px;paddin
   </div>
 </div>
 <canvas id="confetti" class="confetti"></canvas>
-<footer><div class="wrap">© 박복판 스튜디오 · parkbok.com</div></footer>
+<footer><div class="wrap">© parkbok</div></footer>
 <script>window.WHEEL_CONFIG={"lang":"ko","preset":"yes-or-no","ui":{"entries":"항목","results":"결과","placeholder":"한 줄에 하나씩 입력","spin":"돌리기","shuffle":"섞기","sort":"정렬","clear":"지우기","share":"공유","copied":"링크를 복사했습니다. 어디든 붙여 넣으세요.","fullscreen":"전체화면","removeWinner":"당첨 항목 자동 제거","sound":"소리","duration":"회전 시간","sec":"초","noResults":"아직 결과가 없습니다. 룰렛을 돌려 보세요!","clearResults":"결과 지우기","winner":"당첨!","remove":"제거","close":"닫기","entriesCount":"{n}개 항목","titlePh":"룰렛 제목 (선택)","language":"언어","from":"부터","to":"까지","ok":"적용","maybe":"“글쎄” 추가","maybeWord":"글쎄","tapToSpin":"룰렛을 누르거나 돌리기 버튼을 누르세요","spinning":"돌아가는 중…","noEntries":"항목을 2개 이상 넣어야 돌릴 수 있습니다.","other":"다른 룰렛","howTo":"사용 방법","faqTitle":"자주 묻는 질문"},"entries":["예","아니오","예","아니오","예","아니오"],"langUrls":{"en":"/wheel/yes-or-no/","ko":"/wheel/ko/yes-or-no/","zh":"/wheel/zh/yes-or-no/","ja":"/wheel/ja/yes-or-no/","es":"/wheel/es/yes-or-no/","pt":"/wheel/pt/yes-or-no/","de":"/wheel/de/yes-or-no/","fr":"/wheel/fr/yes-or-no/"},"maybeWord":"글쎄"};</script>
 <script src="/wheel/wheel.js" defer></script>
 </body>

diff --git a/wheel/ja/index.html b/wheel/ja/index.html
@@ -14,7 +14,7 @@
 <link rel="alternate" hreflang="de" href="https://parkbok.com/wheel/de/">
 <link rel="alternate" hreflang="fr" href="https://parkbok.com/wheel/fr/">
 <link rel="alternate" hreflang="x-default" href="https://parkbok.com/wheel/">
-<meta property="og:type" content="website"><meta property="og:site_name" content="Parkbok Studio">
+<meta property="og:type" content="website"><meta property="og:site_name" content="parkbok">
 <meta property="og:title" content="ルーレット – ランダム名前選び | 回して決める"><meta property="og:description" content="無料のオンラインルーレット。名前を入れて回すだけでランダムに1つ選べます。登録不要、スマホ対応、リンクで共有。">
 <meta property="og:url" content="https://parkbok.com/wheel/ja/"><meta property="og:image" content="https://parkbok.com/og-wheel.png">
 <meta property="og:image:width" content="1200"><meta property="og:image:height" content="630">
@@ -94,7 +94,7 @@ footer{border-top:1px solid var(--line);color:var(--muted);font-size:13px;paddin
 </head>
 <body>
 <header class="top"><div class="wrap">
-  <a class="brand" href="/wheel/ja/">Parkbok Studio</a>
+  <a class="brand" href="/wheel/ja/">parkbok</a>
   <nav class="menu"><a href="/wheel/ja/" class="on">名前選び</a><a href="/wheel/ja/yes-or-no/">はい/いいえ</a><a href="/wheel/ja/number/">数字</a><a href="/wheel/ja/what-to-eat/">今日のご飯</a></nav>
   <select id="lang" aria-label="言語"><option value="/wheel/" data-code="en">English</option><option value="/wheel/ko/" data-code="ko">한국어</option><option value="/wheel/zh/" data-code="zh">中文</option><option value="/wheel/ja/" data-code="ja" selected>日本語</option><option value="/wheel/es/" data-code="es">Español</option><option value="/wheel/pt/" data-code="pt">Português</option><option value="/wheel/de/" data-code="de">Deutsch</option><option value="/wheel/fr/" data-code="fr">Français</option></select>
 </div></header>
@@ -159,7 +159,7 @@ footer{border-top:1px solid var(--line);color:var(--muted);font-size:13px;paddin
   </div>
 </div>
 <canvas id="confetti" class="confetti"></canvas>
-<footer><div class="wrap">© Parkbok Studio · parkbok.com</div></footer>
+<footer><div class="wrap">© parkbok</div></footer>
 <script>window.WHEEL_CONFIG={"lang":"ja","preset":"index","ui":{"entries":"項目","results":"結果","placeholder":"1行に1つずつ入力","spin":"回す","shuffle":"シャッフル","sort":"並べ替え","clear":"クリア","share":"共有","copied":"リンクをコピーしました。どこにでも貼り付けられます。","fullscreen":"全画面","removeWinner":"当たった項目を自動で除外","sound":"サウンド","duration":"回転時間","sec":"秒","noResults":"まだ結果がありません。回してみましょう！","clearResults":"結果を消す","winner":"決定！","remove":"除外","close":"閉じる","entriesCount":"{n} 件","titlePh":"ルーレットのタイトル（任意）","language":"言語","from":"から","to":"まで","ok":"適用","maybe":"「たぶん」を追加","maybeWord":"たぶん","tapToSpin":"ルーレットをタップするか「回す」を押してください","spinning":"回転中…","noEntries":"回すには項目を2つ以上入れてください。","other":"他のルーレット","howTo":"使い方","faqTitle":"よくある質問"},"entries":["さくら","ゆうと","はると","ひなた","みお","そうた","あおい","りく"],"langUrls":{"en":"/wheel/","ko":"/wheel/ko/","zh":"/wheel/zh/","ja":"/wheel/ja/","es":"/wheel/es/","pt":"/wheel/pt/","de":"/wheel/de/","fr":"/wheel/fr/"},"maybeWord":"たぶん"};</script>
 <script src="/wheel/wheel.js" defer></script>
 </body>
